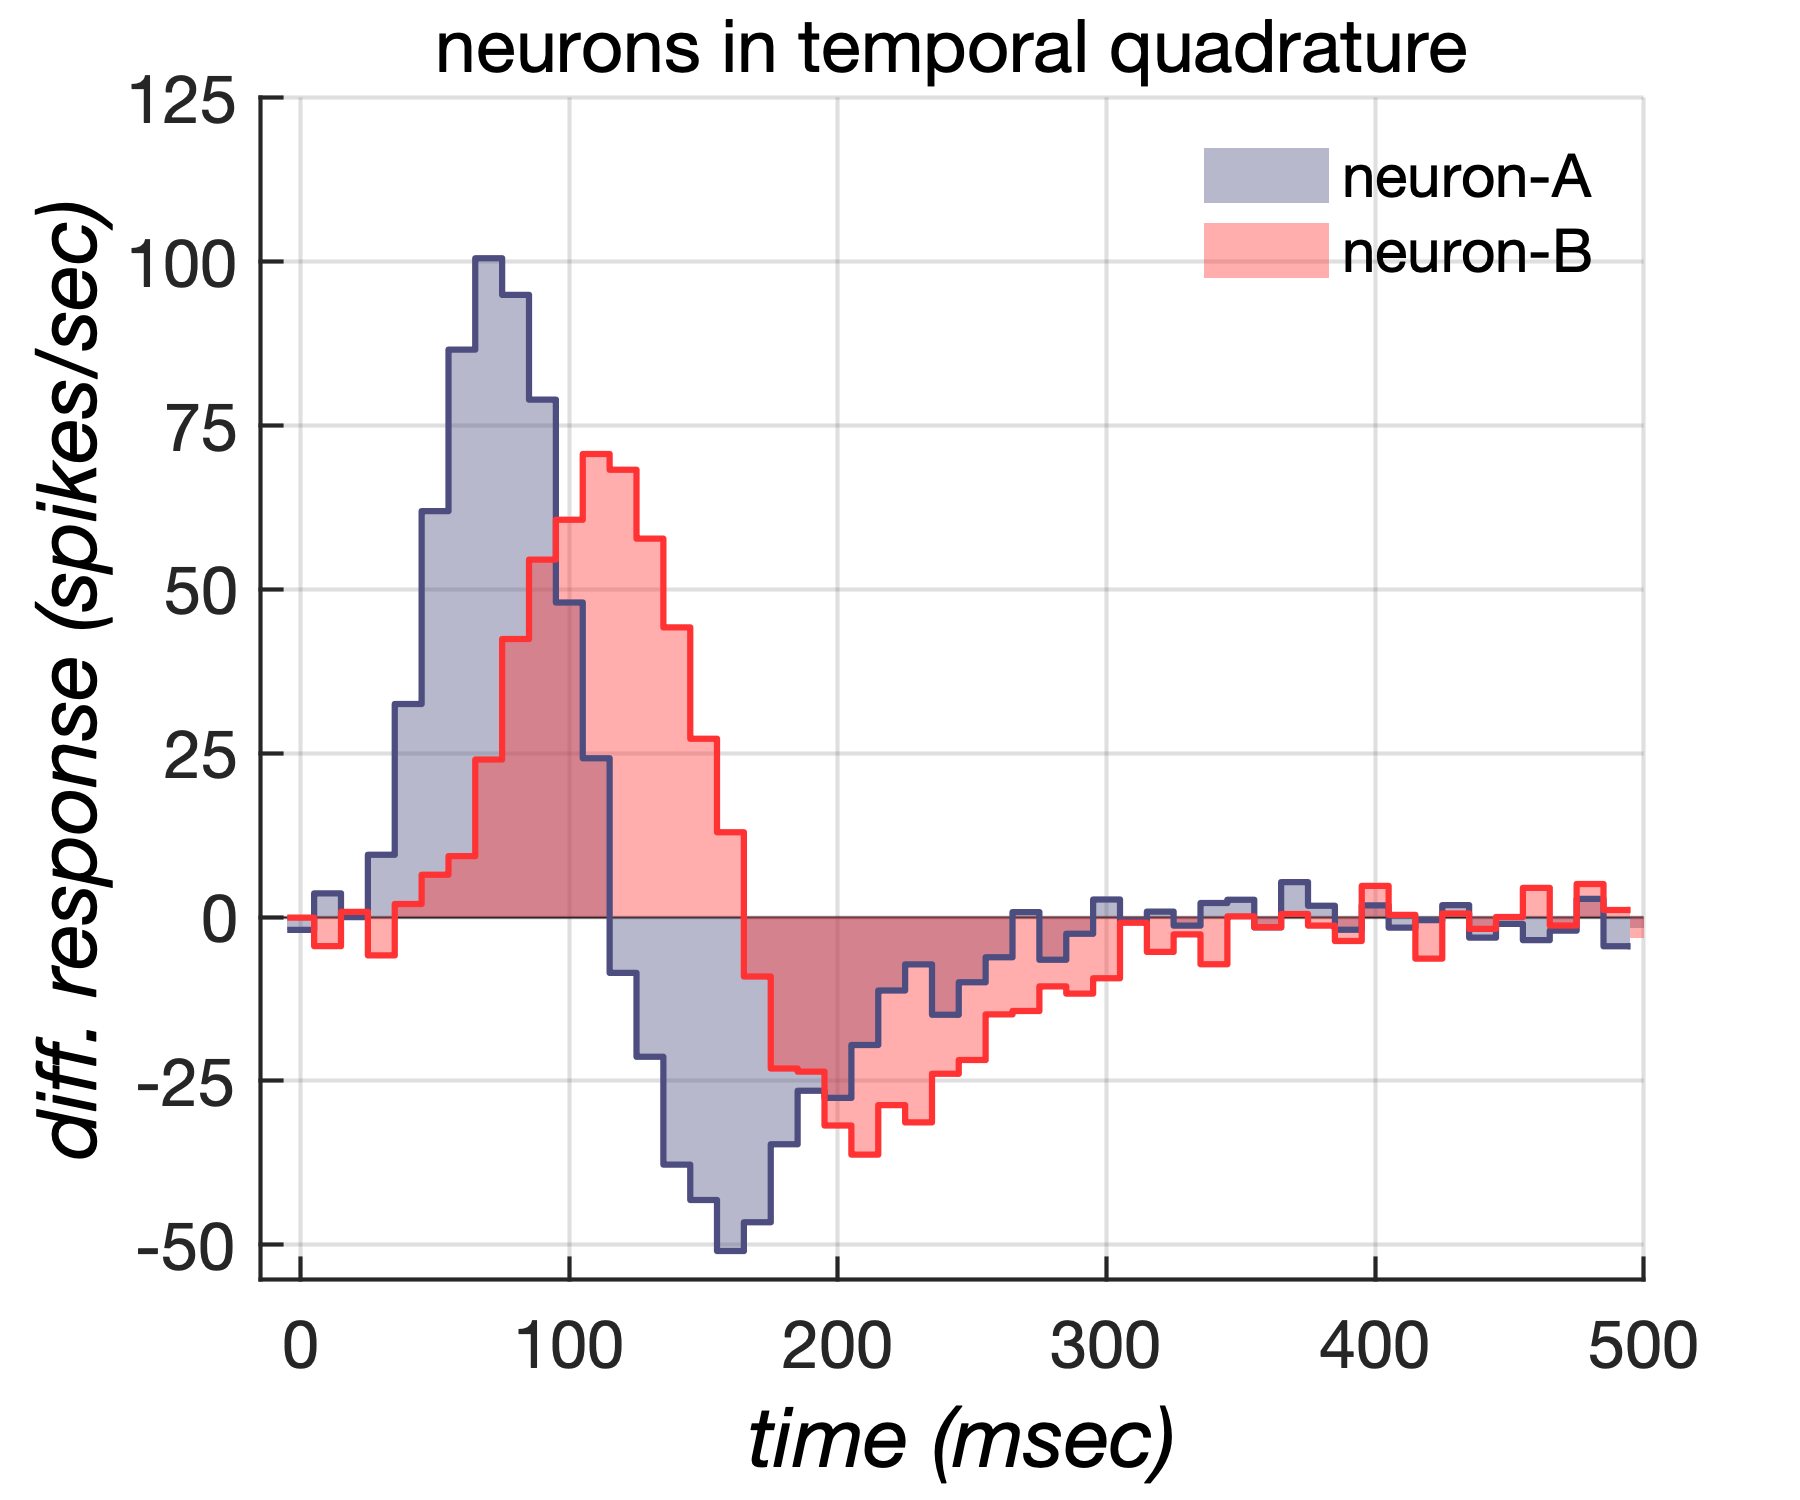
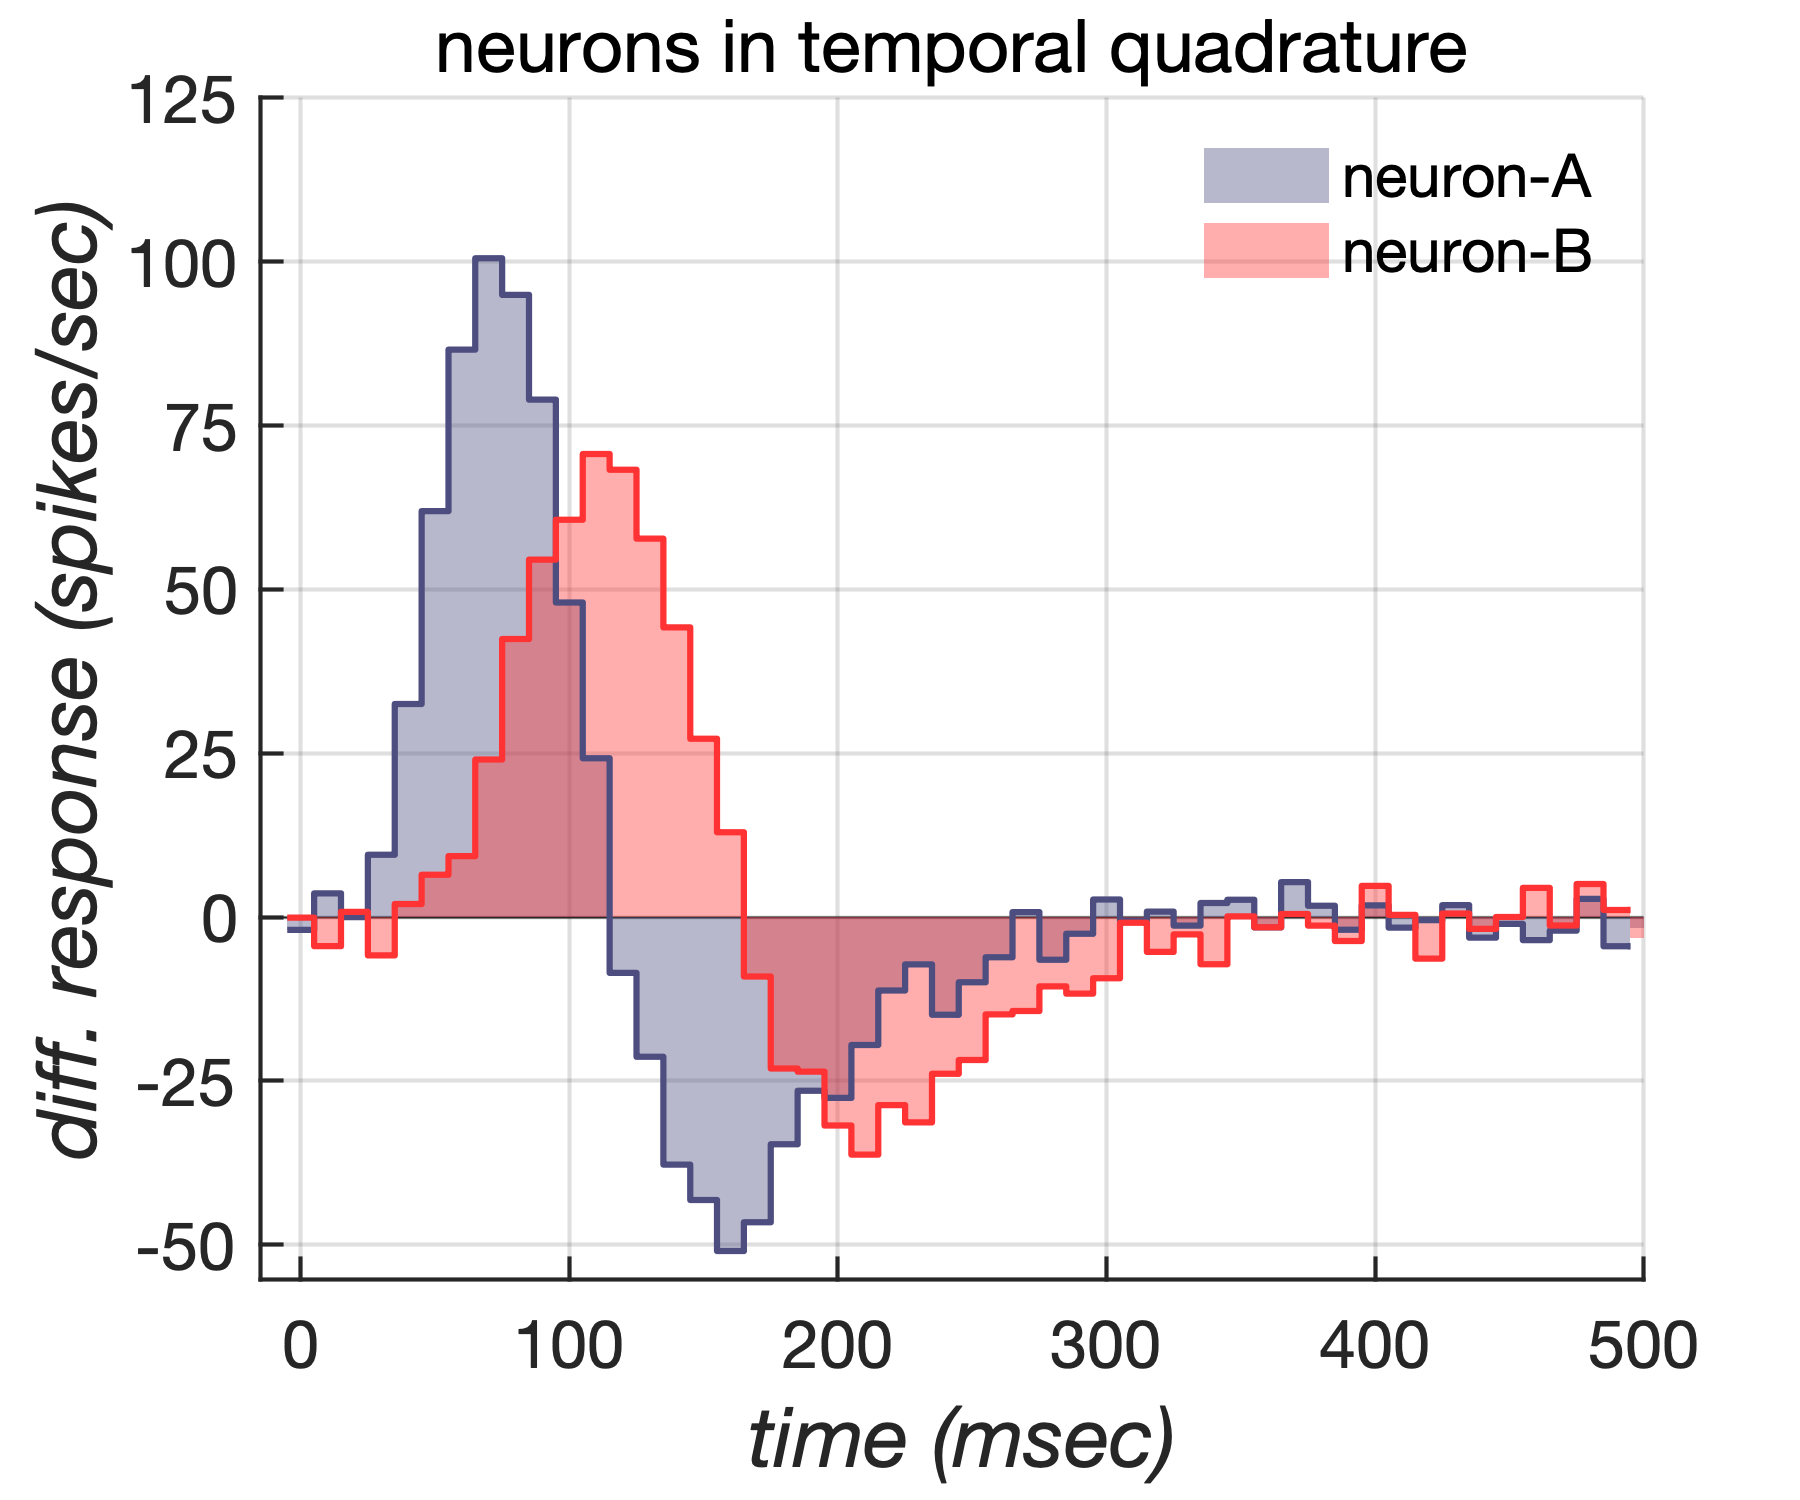
New method to reposition the legend

Changed region(s): [[0.0, 0.1227, 0.0622, 0.7667], [0.4044, 0.9507, 0.6533, 0.9813]]

diff --git a/tutorials/t_areaPlot.m b/tutorials/t_areaPlot.m
@@ -37,8 +37,8 @@ function t_areaPlot
     % the color order and the figure size
     plotlabOBJ.applyRecipe(...
         'colorOrder', LMSconeColors, ...
-        'figureWidthInches', 6, ...
-        'figureHeightInches', 6);
+        'figureWidthInches', 5, ...
+        'figureHeightInches', 5);
     
     % New figure
     hFig = figure(1); clf; hold on;
@@ -60,10 +60,13 @@ function t_areaPlot
     xlabel('\it wavelength (nm)'); ylabel('\it normalized absorbance');
 
     % Legend
-    legend({'L cone', 'M cone', 'S cone'}, 'Location', 'NorthEast');
-
+    lHandle = legend({'L', 'M', 'S'});
+    
+    % Reposition the legend
+    plotlabOBJ.repositionLegend(lHandle, [0.78 0.77]);
+    
     % Title
-    title(sprintf('Stockman-Sharpe nomograms'));
+    title(sprintf('Stockman-Sharpe cone nomograms'));
 
     % Export the figure to the gallery directory in PNG format
     plotlabOBJ.exportFig(hFig, 'png', 'SSnomograms', 'gallery');

diff --git a/tutorials/t_areaPlotUsingPrivateRecipe.m b/tutorials/t_areaPlotUsingPrivateRecipe.m
@@ -34,12 +34,9 @@ function t_areaPlotUsingPrivateRecipe
     plotlabOBJ = plotlab();
     
     % Apply the private recipe included in this file passing the 
-    % desired colors and specify a custom figure size
+    % desired colors to that recipe
     plotlabOBJ.applyRecipe(...
-        'customRecipeFunction', @()privateRecipe(colors), ...
-        'lightTheme', 'light', ...
-        'figureWidthInches', 6, ...
-        'figureHeightInches', 6);
+        'customRecipeFunction', @()privateRecipe(colors));
     
     % New figure
     hFig = figure(1); clf; hold on;
@@ -127,8 +124,8 @@ function privateRecipe(colors)
    % Figure size
    plotlab.setDefaultFigureSize(...
        'units','inches', ...
-       'width', 6, ...
-       'height',6 ...
+       'width', 5, ...
+       'height',5 ...
        );
       
 end

diff --git a/@plotlab/repositionLegend.m b/@plotlab/repositionLegend.m
@@ -1,0 +1,29 @@
+function repositionLegend(legendHandle, xyPos)
+% Reposition the legend to xyPos
+%
+% Syntax:
+%   repositionLegend(legendHandle, xyPos)
+%
+% Description:
+%    Reposition the legend to xyPos
+%
+% Inputs:
+%    legendHandle         - the legend to be offset
+%    xyPos                - new [x y] position of the legend
+%
+% Outputs:
+%    None.
+%
+% Optional key/value pairs:
+%    None.
+%
+% For usage see:
+%   t_areaPlot()
+%
+
+% History:
+%    03/24/20  NPC  Wrote it
+
+    p = get(legendHandle, 'position');
+    set(legendHandle, 'position', [xyPos(1) xyPos(2) p(3) p(4)]);
+end

diff --git a/tutorials/t_lineMarkerPlot.m b/tutorials/t_lineMarkerPlot.m
@@ -34,8 +34,8 @@ function t_lineMarkerPlot()
         'colorOrder', [1 0 0; 0 0 1; 0 0 0], ...
         'lightTheme', 'light', ...
         'lineMarkerSize', 12, ...
-        'figureWidthInches', 6, ...
-        'figureHeightInches', 6);
+        'figureWidthInches', 5, ...
+        'figureHeightInches', 5);
     
     % New figure
     hFig = figure(1); clf; hold on;

diff --git a/tutorials/t_contourPlot.m b/tutorials/t_contourPlot.m
@@ -33,8 +33,8 @@ function t_contourPlot
     plotlabOBJ.applyRecipe(...
         'customRecipeFunction', @privateRecipe, ...
         'lightTheme', 'light', ...
-        'figureWidthInches', 6.2, ...
-        'figureHeightInches', 6.2);
+        'figureWidthInches', 5, ...
+        'figureHeightInches', 5);
     
     % New figure
     hFig = figure(1); clf; hold on;

diff --git a/@plotlab/plotlab.m b/@plotlab/plotlab.m
@@ -82,6 +82,9 @@ classdef plotlab < handle
         % Offset the axes
         offsetAxes(axesHandle, varargin);
         
+        % Reposition the legend
+        repositionLegend(legendHandle, xyPos);
+        
         % Draw the outlines of a bar plot
         barOutline(x,y);
         
